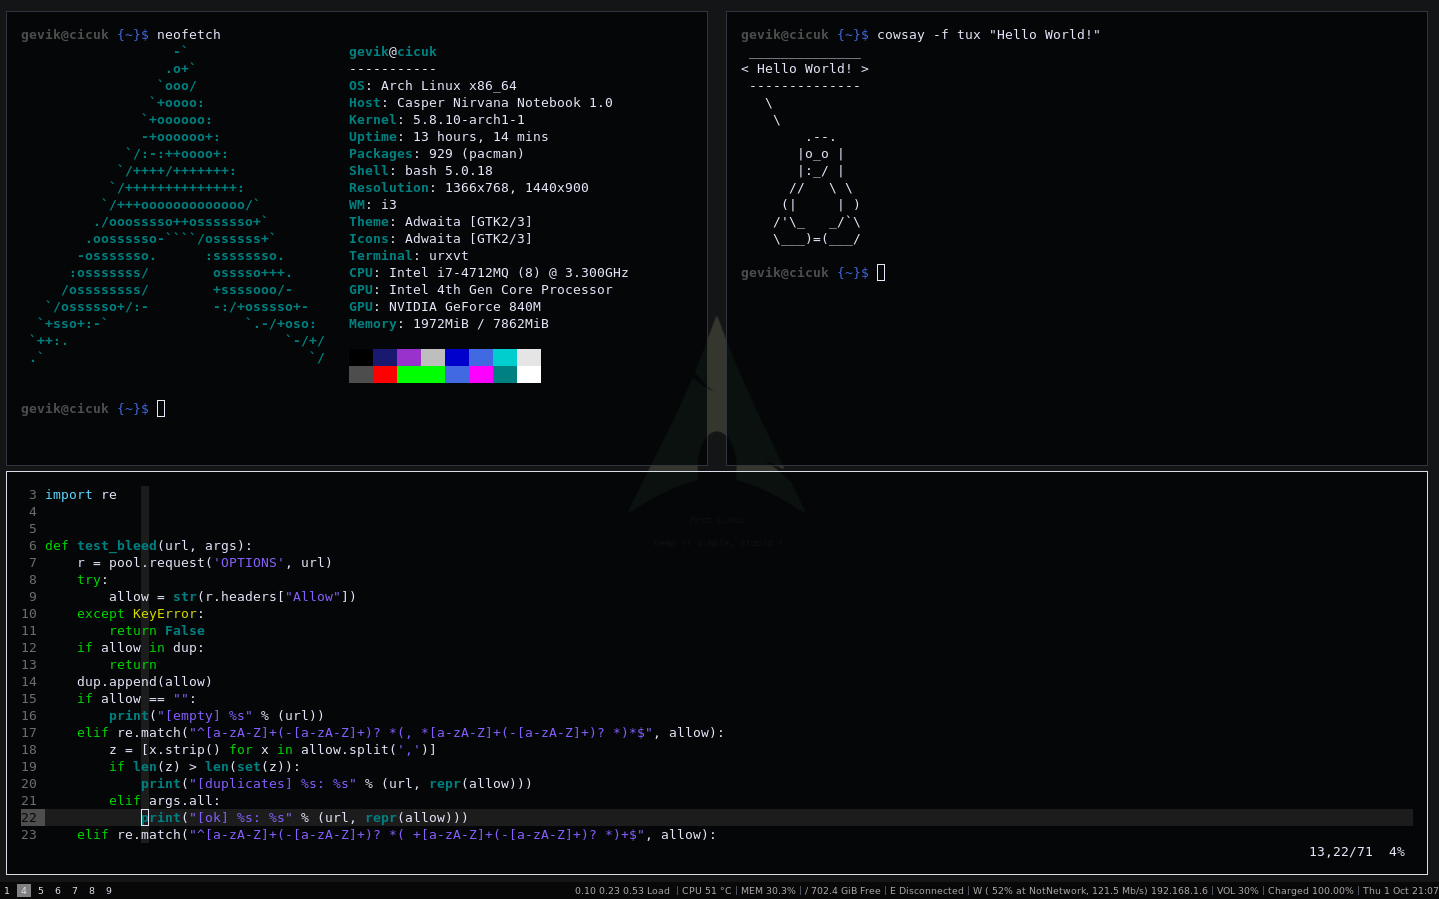
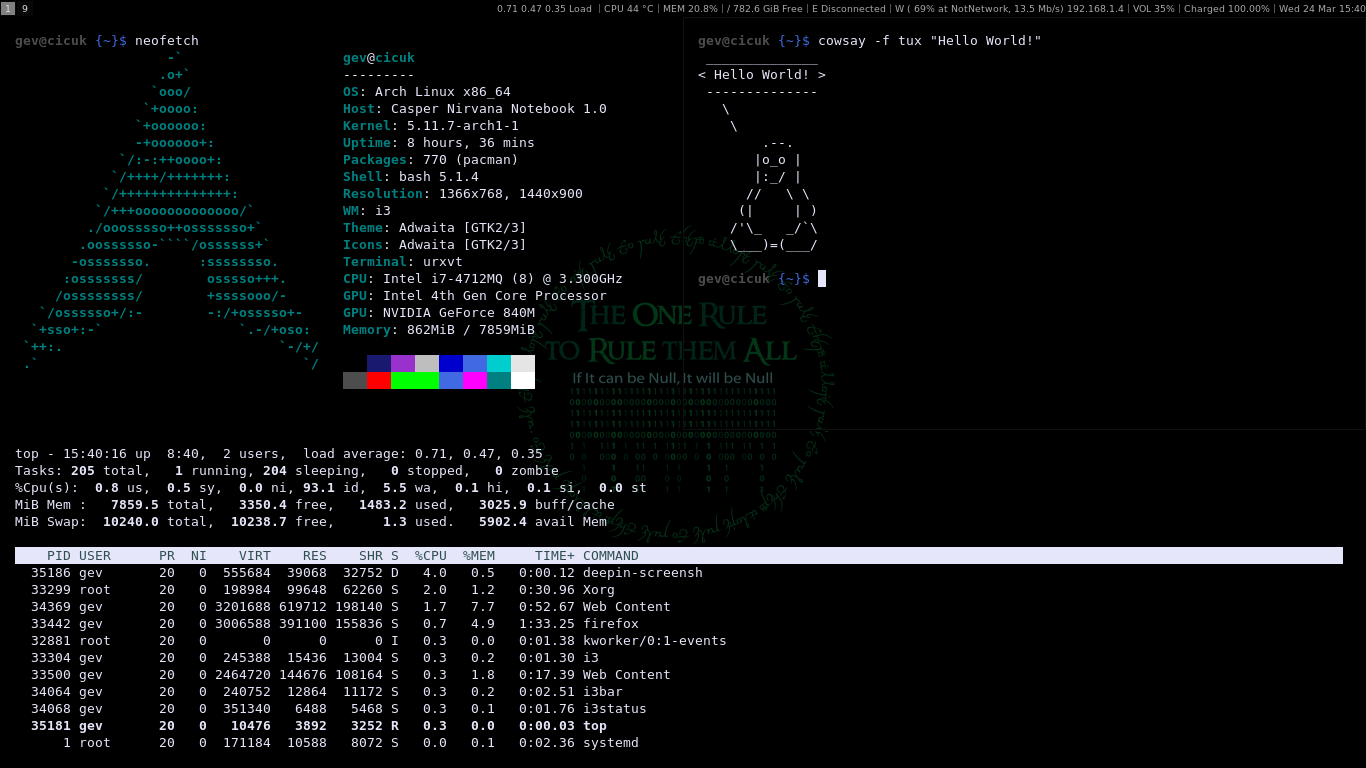
vim and i3 configs updated

diff --git a/README.md b/README.md
@@ -1,13 +1,17 @@
 # My Config Files
 
-### i3 and i3status configs
+WM: i3
+Terminal: Urxvt
+Editor: Vim
+
+Vim Plugins:
+    NERDTree
+    CoC (Conquer of Completion)
+    indentLine
+    Airline
+    Bracey
+
 
 ![i3](Images/i3.png)
 
-******
-
-### Vim configs
-
-![vim-py](Images/vim_py.png)
-
-![vim-php](Images/vim_php.png)
+![vim-py](Images/vim.png)
